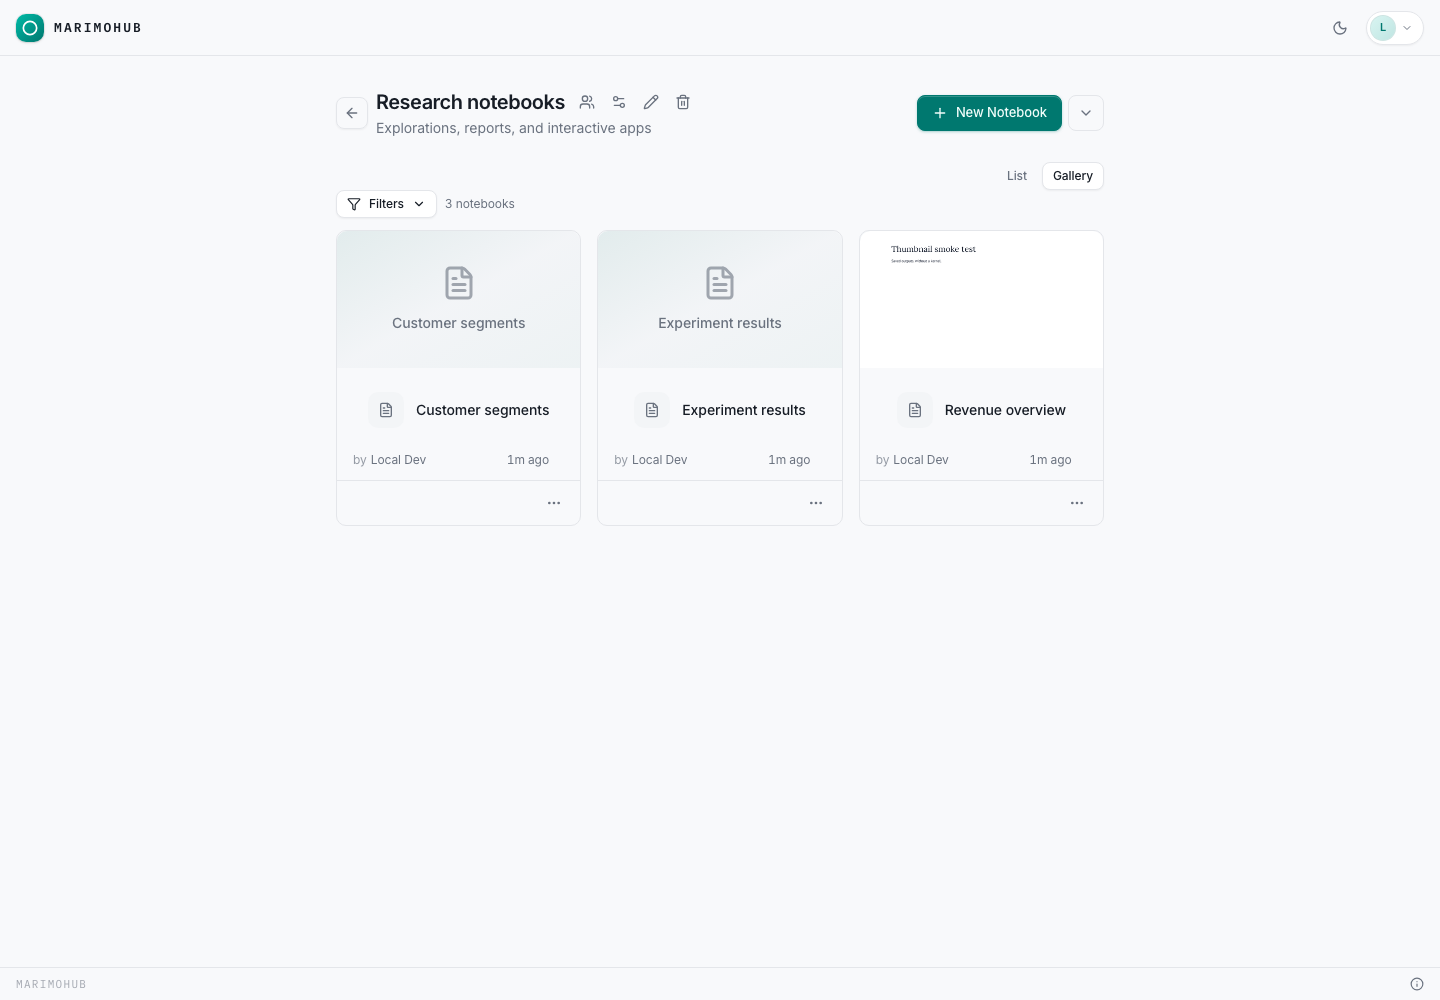
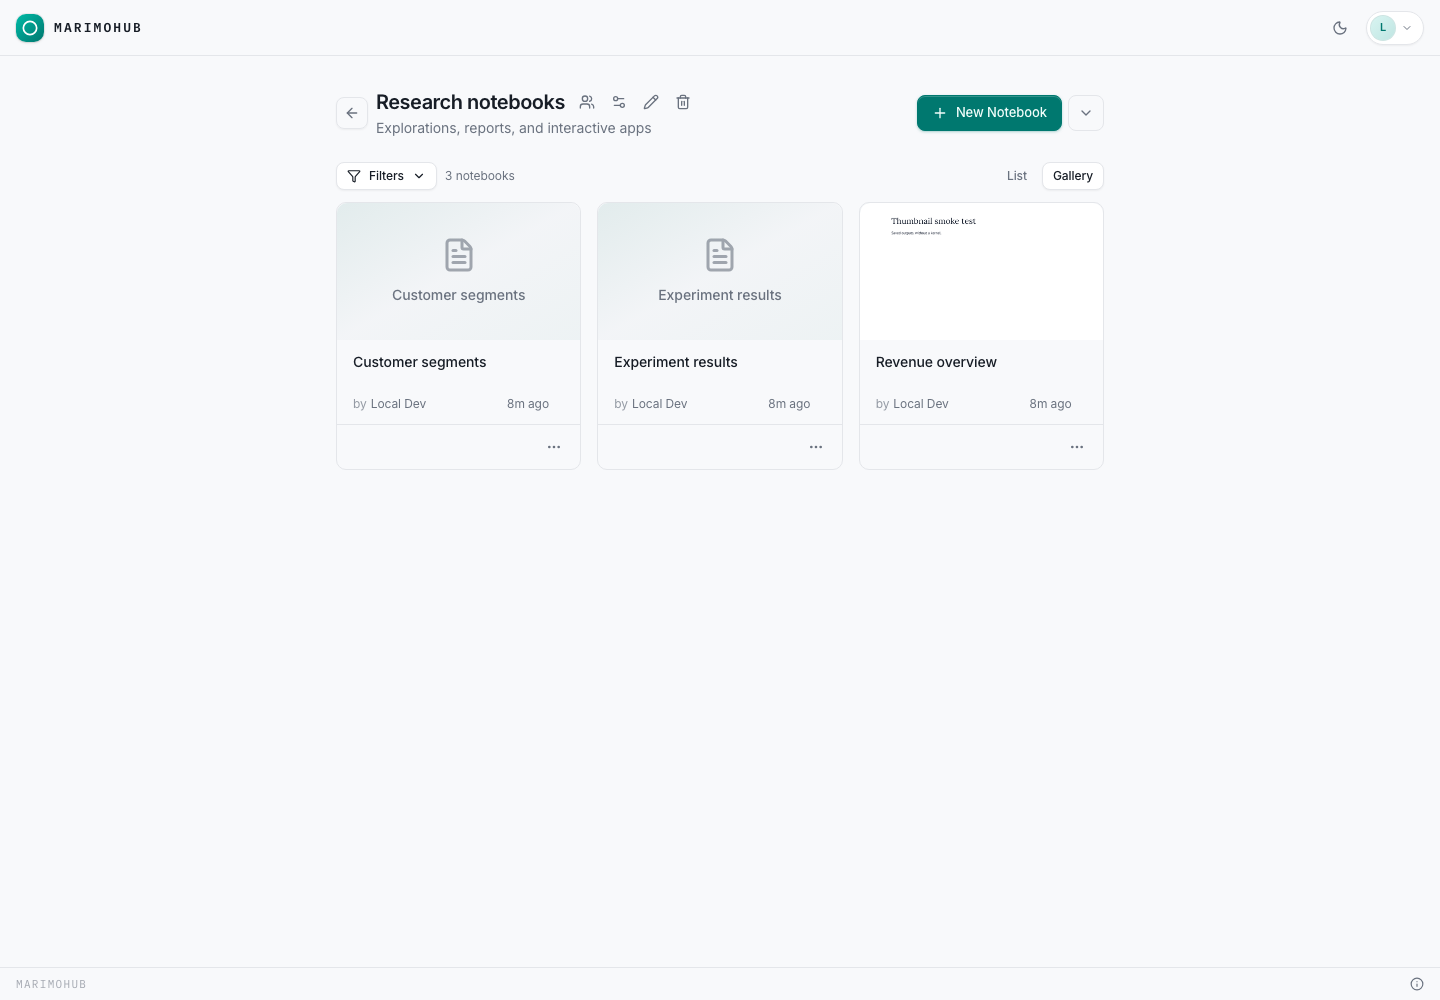
fix(web): align gallery controls and simplify card titles

diff --git a/packages/web/src/components/Project/Project.tsx b/packages/web/src/components/Project/Project.tsx
@@ -757,24 +757,6 @@ function useProjectContent() {
 				</div>
 			</PageHeader>
 
-			<fieldset className="flex justify-end gap-1" aria-label="Notebook view">
-				{(['List', 'Gallery'] as const).map((view) => (
-					<Button
-						key={view}
-						size="sm"
-						variant={gallery === (view === 'Gallery') ? 'default' : 'ghost'}
-						aria-pressed={gallery === (view === 'Gallery')}
-						onPress={() => {
-							setGallery(view === 'Gallery');
-							try {
-								localStorage.setItem('notebook-view', view.toLowerCase());
-							} catch {}
-						}}
-					>
-						{view}
-					</Button>
-				))}
-			</fieldset>
 			{thumbnailModal.target && (
 				<ThumbnailDialog
 					projectId={pid!}
@@ -793,6 +775,26 @@ function useProjectContent() {
 				isLoading={notebooksLoading}
 				isFetching={notebooksFetching}
 				onChange={setFilters}
+				actions={
+					<fieldset className="flex gap-1" aria-label="Notebook view">
+						{(['List', 'Gallery'] as const).map((view) => (
+							<Button
+								key={view}
+								size="sm"
+								variant={gallery === (view === 'Gallery') ? 'default' : 'ghost'}
+								aria-pressed={gallery === (view === 'Gallery')}
+								onPress={() => {
+									setGallery(view === 'Gallery');
+									try {
+										localStorage.setItem('notebook-view', view.toLowerCase());
+									} catch {}
+								}}
+							>
+								{view}
+							</Button>
+						))}
+					</fieldset>
+				}
 			/>
 
 			<ListResults
@@ -846,7 +848,7 @@ function useProjectContent() {
 							to={`/projects/${pid}/notebooks/${nb.id}`}
 							state={{ title: nb.title }}
 							label={nb.title}
-							contentClassName="items-center justify-between gap-3 py-3.5"
+							contentClassName={gallery ? undefined : 'items-center justify-between gap-3 py-3.5'}
 							trailing={
 								<>
 									<NotebookTags
@@ -941,7 +943,7 @@ function useProjectContent() {
 							}
 						>
 							<div className="flex min-w-0 flex-1 items-center gap-3">
-								{nb.source_type !== 'git' && (
+								{!gallery && nb.source_type !== 'git' && (
 									<span className="flex size-9 shrink-0 items-center justify-center rounded-lg bg-muted text-muted-foreground transition-colors group-hover:bg-primary/10 group-hover:text-primary">
 										<FileText className="size-4" />
 									</span>

diff --git a/packages/web/src/components/ui/ListFilters.tsx b/packages/web/src/components/ui/ListFilters.tsx
@@ -1,4 +1,5 @@
 /* oxlint-disable jsx-a11y/prefer-tag-over-role -- React does not recognize the HTML search element. */
+import type { ReactNode } from 'react';
 import { useCallback, useEffect, useId, useRef, useState } from 'react';
 import { ChevronDown, Filter } from 'lucide-react';
 import { Button } from './Button';
@@ -9,6 +10,7 @@ import { hasListFilters } from '@/lib/listFilters';
 import type { ListFilterStatus, ListFilterValues } from '@/lib/listFilters';
 
 interface ListFiltersProps<Status extends string> {
+	actions?: ReactNode;
 	label: string;
 	itemName: string;
 	values: ListFilterValues<Status>;
@@ -27,6 +29,7 @@ function formValue(data: FormData, name: string): string | undefined {
 }
 
 export function ListFilters<Status extends string>({
+	actions,
 	label,
 	itemName,
 	values,
@@ -69,7 +72,7 @@ export function ListFilters<Status extends string>({
 
 	return (
 		<div className="mb-3">
-			<div className="flex items-center gap-2">
+			<div className="flex flex-wrap items-center gap-2">
 				<Button
 					type="button"
 					size="sm"
@@ -92,6 +95,7 @@ export function ListFilters<Status extends string>({
 				>
 					{announcement}
 				</output>
+				{actions && <div className="ml-auto flex shrink-0 items-center gap-1">{actions}</div>}
 			</div>
 			{isOpen ? (
 				<form
